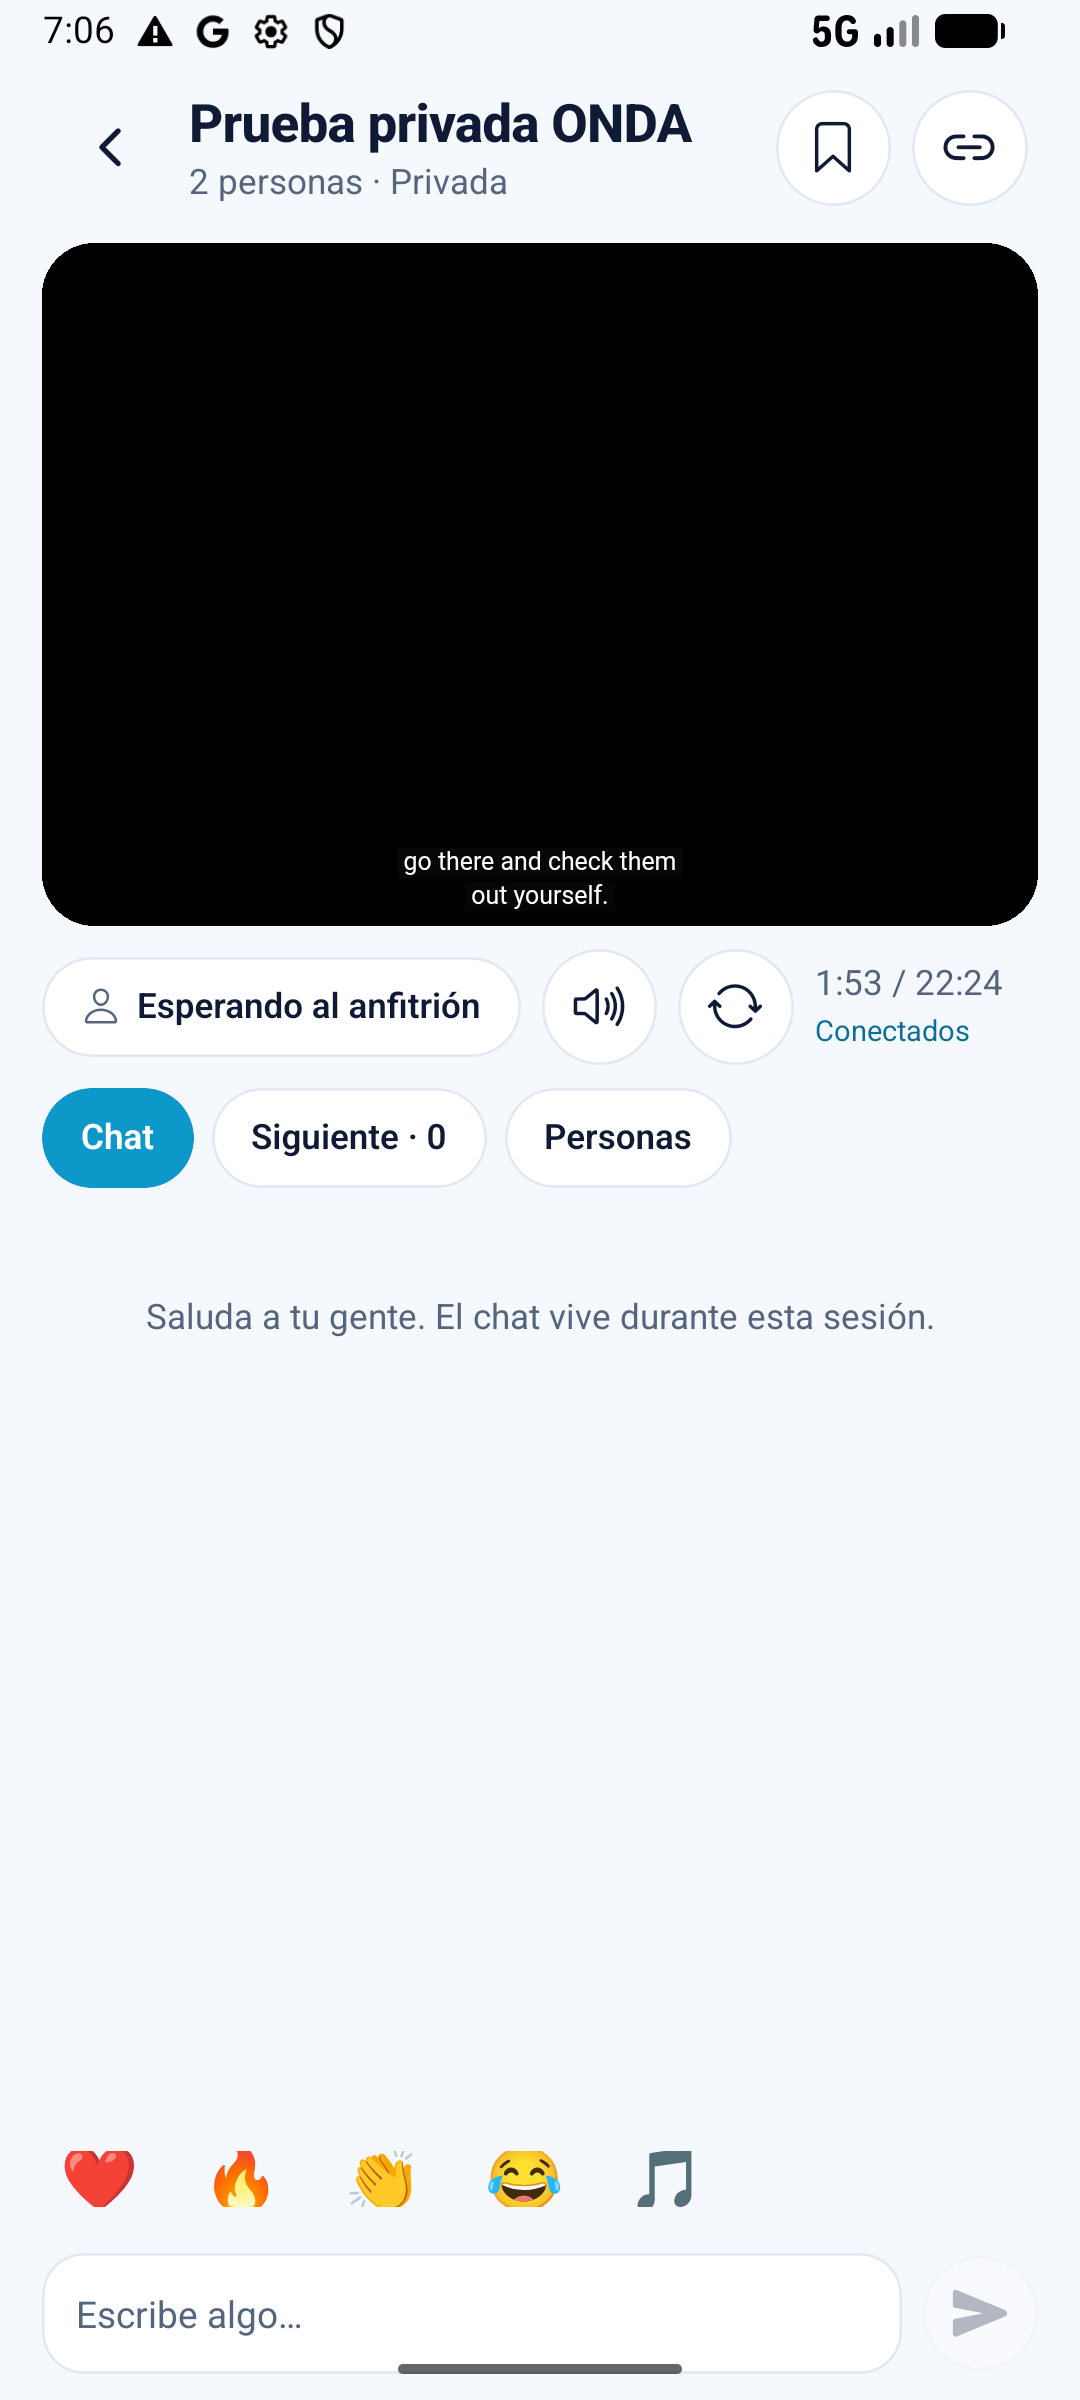
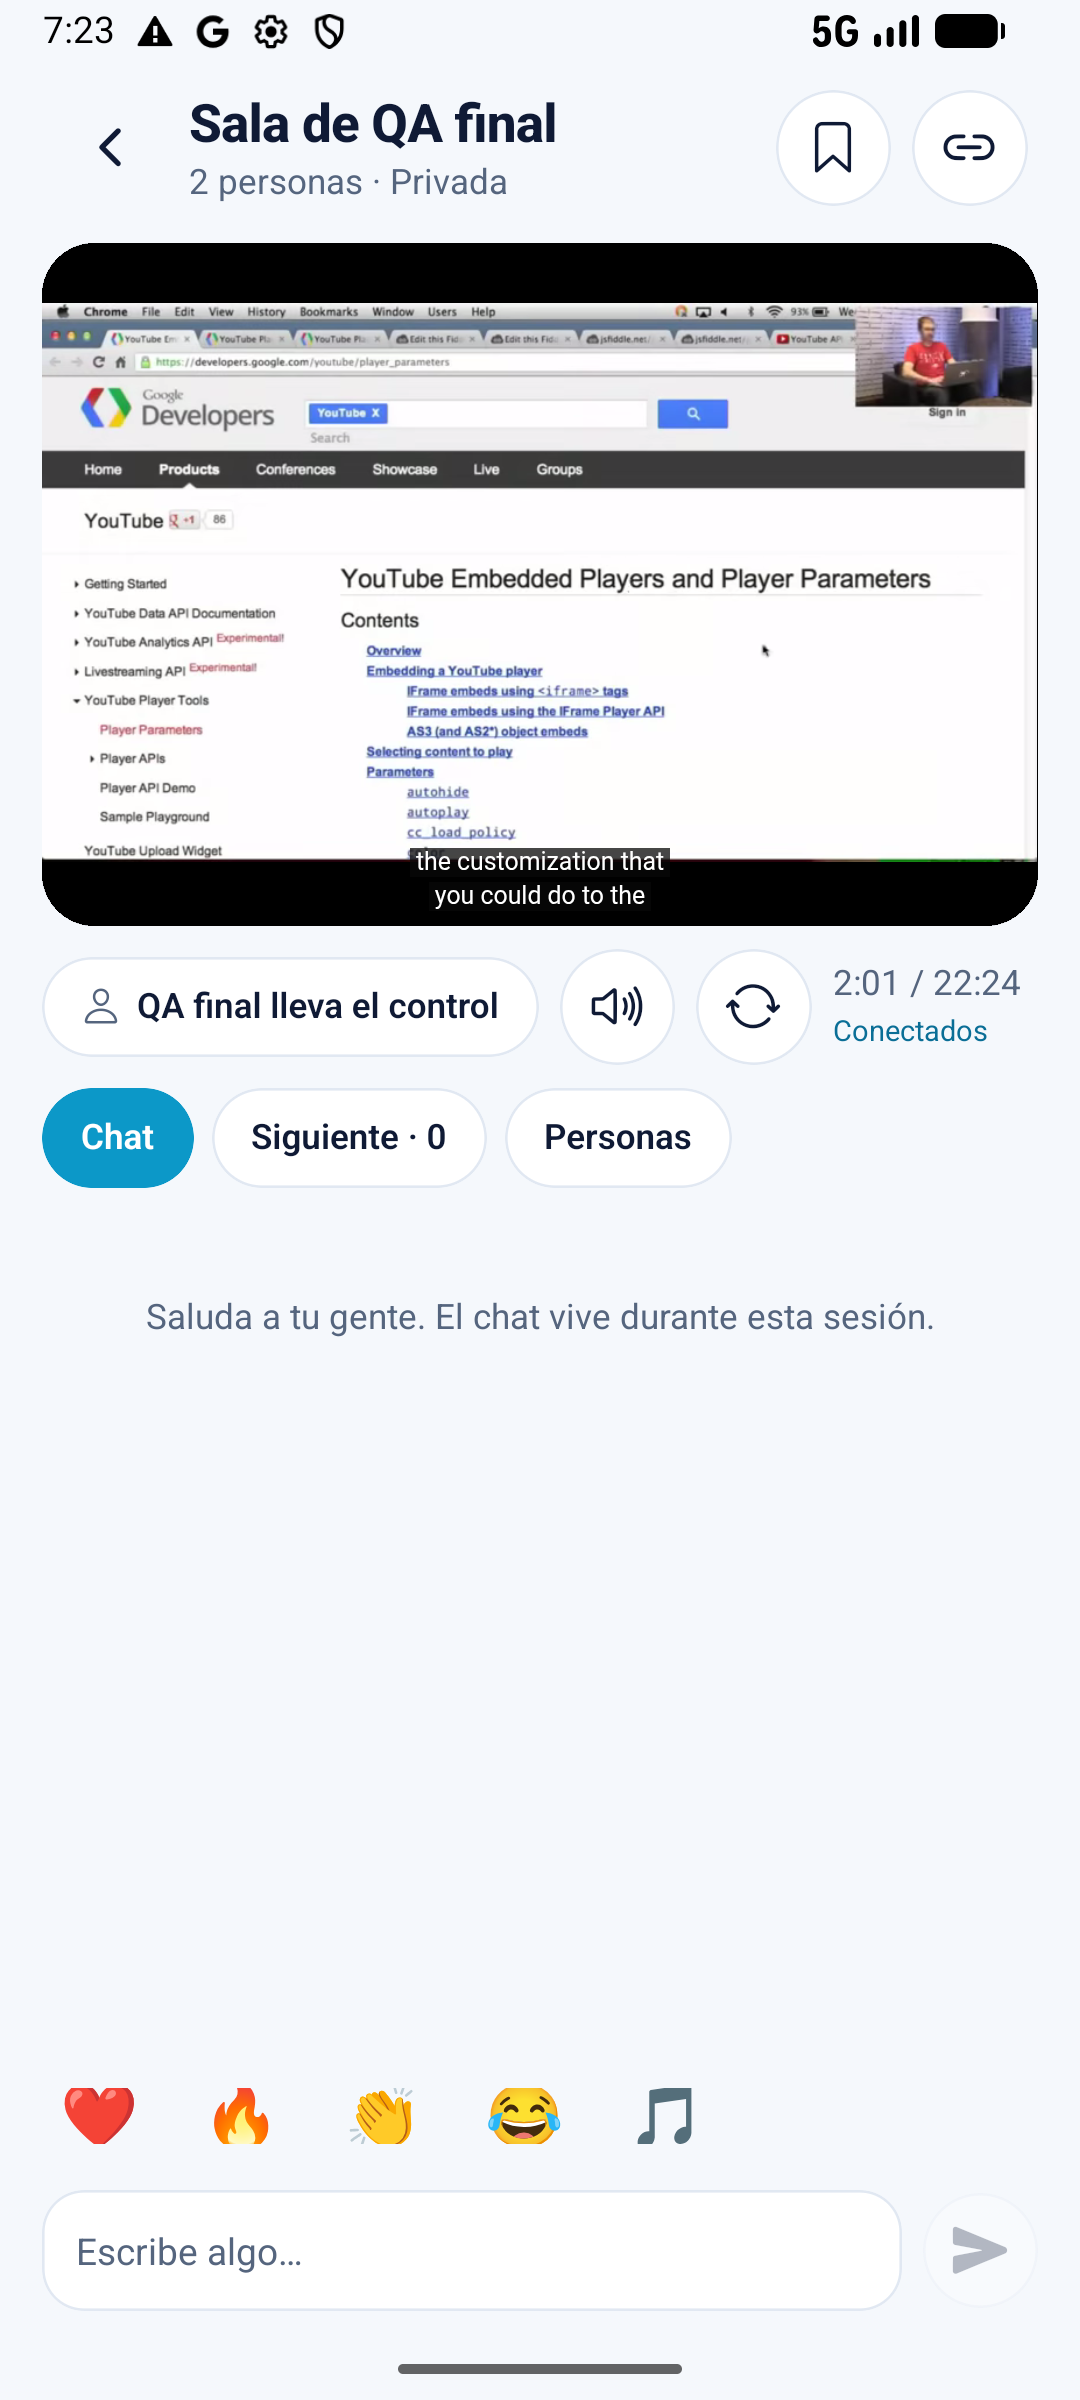
docs: publish beta links and final Android web evidence

diff --git a/README.md b/README.md
@@ -1,9 +1,13 @@
 # ONDA
 **El mundo suena aquí.**
 
-Aplicación móvil de radios con Expo / React Native (SDK 57) y API ASP.NET Core 10.
+Aplicación social de radio, música y video con Expo / React Native (SDK 57) y API ASP.NET Core 10.
 Base de datos: **SQL Server**, por decisión del propietario.
-Estado: implementación funcional en desarrollo; **MVP todavía no aceptado** (faltan pruebas físicas).
+Estado: **beta 0.2 desplegada**; faltan pruebas físicas para aceptar el MVP.
+
+Web: https://onda.lunalav.pe · API: https://onda-api.lunalav.pe · [APK beta Android](https://onda.lunalav.pe/downloads/ONDA-beta.apk?v=0.2.0).
+El APK incluye JavaScript, funciona sin Metro y usa HTTPS. Firma de depuración para beta interna; no es una publicación en tiendas.
+Continuación: [handoff para Claude Code](docs/CLAUDE_HANDOFF.md).
 
 ## Qué incluye
 - Catálogo de ~68.000 emisoras de Radio Browser sincronizado en SQL Server (solo se reproducen streams HTTPS),
@@ -12,7 +16,10 @@ Estado: implementación funcional en desarrollo; **MVP todavía no aceptado** (f
   (país, ciudad, idioma, género), mapa por área visible con clusters, Radio Radar con carga progresiva,
   reproductor global con reintentos y fuentes alternativas, reportes de problemas, biblioteca local con colecciones.
 - Diseño según docs/design-reference.png, tema claro/oscuro/automático. Capturas: docs/screenshots.
-- Sin cuentas, sincronización de biblioteca, salas ni IA todavía.
+- Salas públicas/privadas con invitados, chat, reacciones, cola con votos, controles del anfitrión, transferencia de control,
+  expulsión, reportes, reconexión y códigos renovables. Radio, YouTube/YouTube Music y archivos HTTPS de audio/video.
+- Cuentas opcionales con recuperación por código privado y biblioteca sincronizada: radios, colecciones y multimedia;
+  historial solo con consentimiento. Asistente de descubrimiento con IA local y respaldo por reglas; pasaporte basado en escuchas reales.
 
 ## Inicio en Windows
 Requisitos: Node 22+, .NET SDK 10 (se usa `.tools/dotnet` si existe), SQL Server (por defecto `.\SQLEXPRESS`,
@@ -31,7 +38,9 @@ Otra instancia: `$env:ONDA_SQL_SERVER='(localdb)\OndaDev'` o `$env:ConnectionStr
 En emulador Android la API está en `http://10.0.2.2:5080`; en un dispositivo físico, la IP LAN del PC.
 El tráfico HTTP solo se habilita en builds con APP_VARIANT=development. Preview/producción requieren API HTTPS.
 
-## Probar en un teléfono Android real (APK de prueba en la red local)
+## Probar en un teléfono Android real
+Descargar el [APK público](https://onda.lunalav.pe/downloads/ONDA-beta.apk?v=0.2.0). No requiere PC ni Wi-Fi compartido.
+También se puede generar una variante para pruebas locales:
 1. PC y teléfono en la misma red Wi‑Fi/LAN. Iniciar la API para la red: `scripts/start-api.ps1` (escucha en 0.0.0.0:5080).
 2. Permitir el puerto 5080 en el firewall de Windows (una vez, PowerShell como administrador):
    `New-NetFirewallRule -DisplayName "ONDA API 5080 (LAN)" -Direction Inbound -Protocol TCP -LocalPort 5080 -RemoteAddress LocalSubnet -Action Allow`
@@ -51,8 +60,8 @@ Servidor `.\SQLEXPRESS`, autenticación Windows, base `Onda`. Tablas y consultas
 Las migraciones se aplican explícitamente, nunca al iniciar la API.
 
 ## Verificación
-- `npm run check:mobile` — TypeScript, ESLint y 37 pruebas.
-- `powershell -ExecutionPolicy Bypass -File scripts/test-api.ps1` — 62 pruebas, incluidas 10 con SQL Server real.
+- `npm run check:mobile` — TypeScript, ESLint y 54 pruebas.
+- `powershell -ExecutionPolicy Bypass -File scripts/test-api.ps1` — 93 pruebas, incluidas integraciones con SQL real y WebSockets.
 - `powershell -ExecutionPolicy Bypass -File scripts/smoke-api.ps1` — catálogo real de extremo a extremo.
 - `curl http://localhost:5080/api/v1/catalog/status`
 
